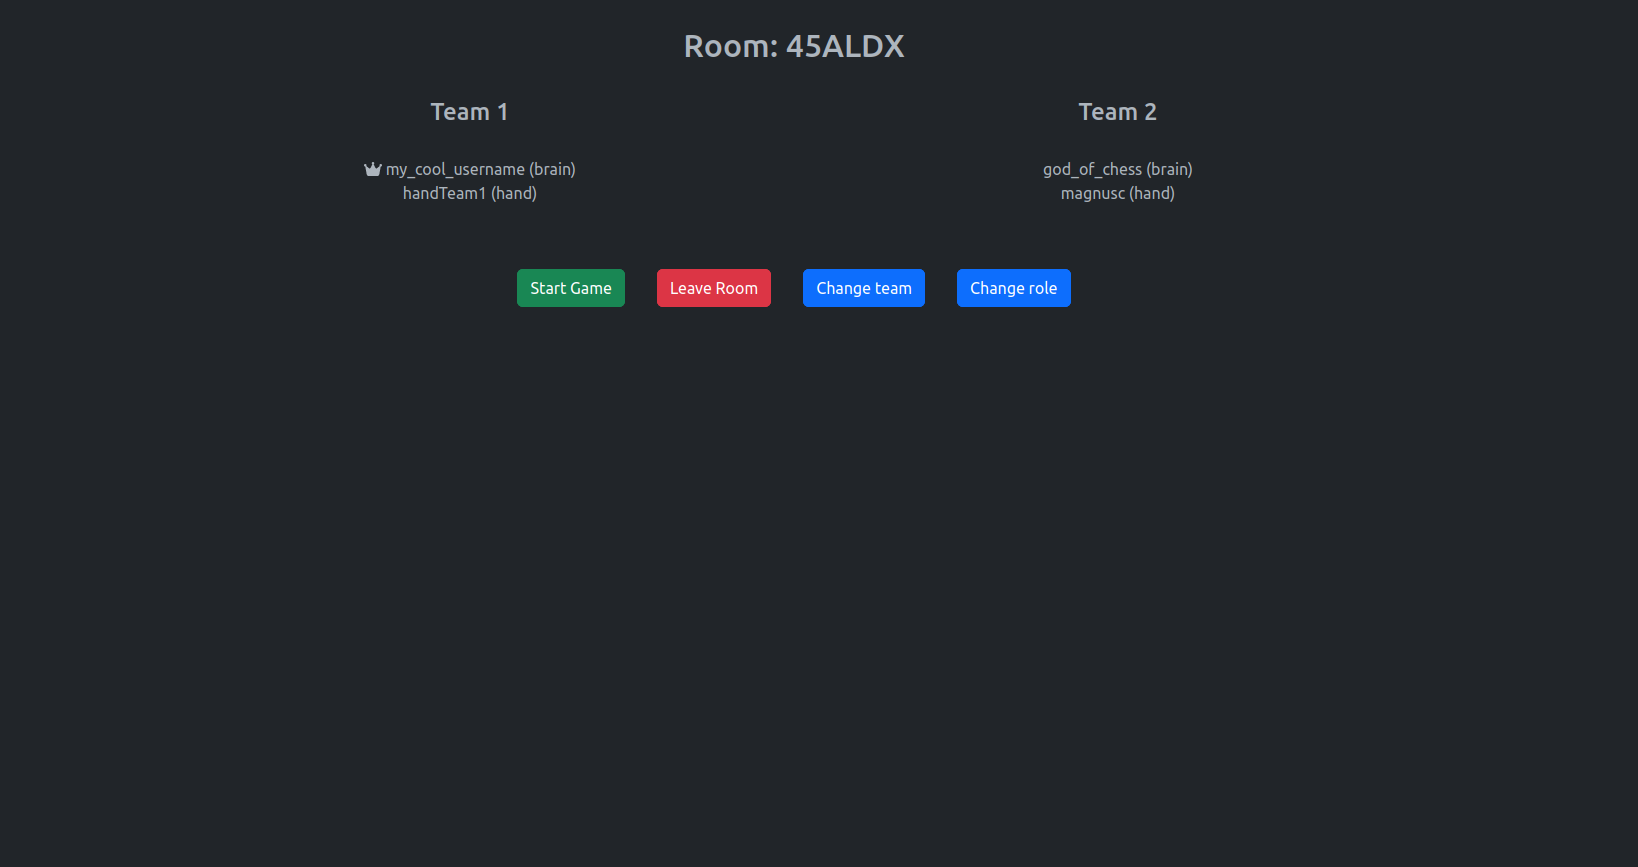
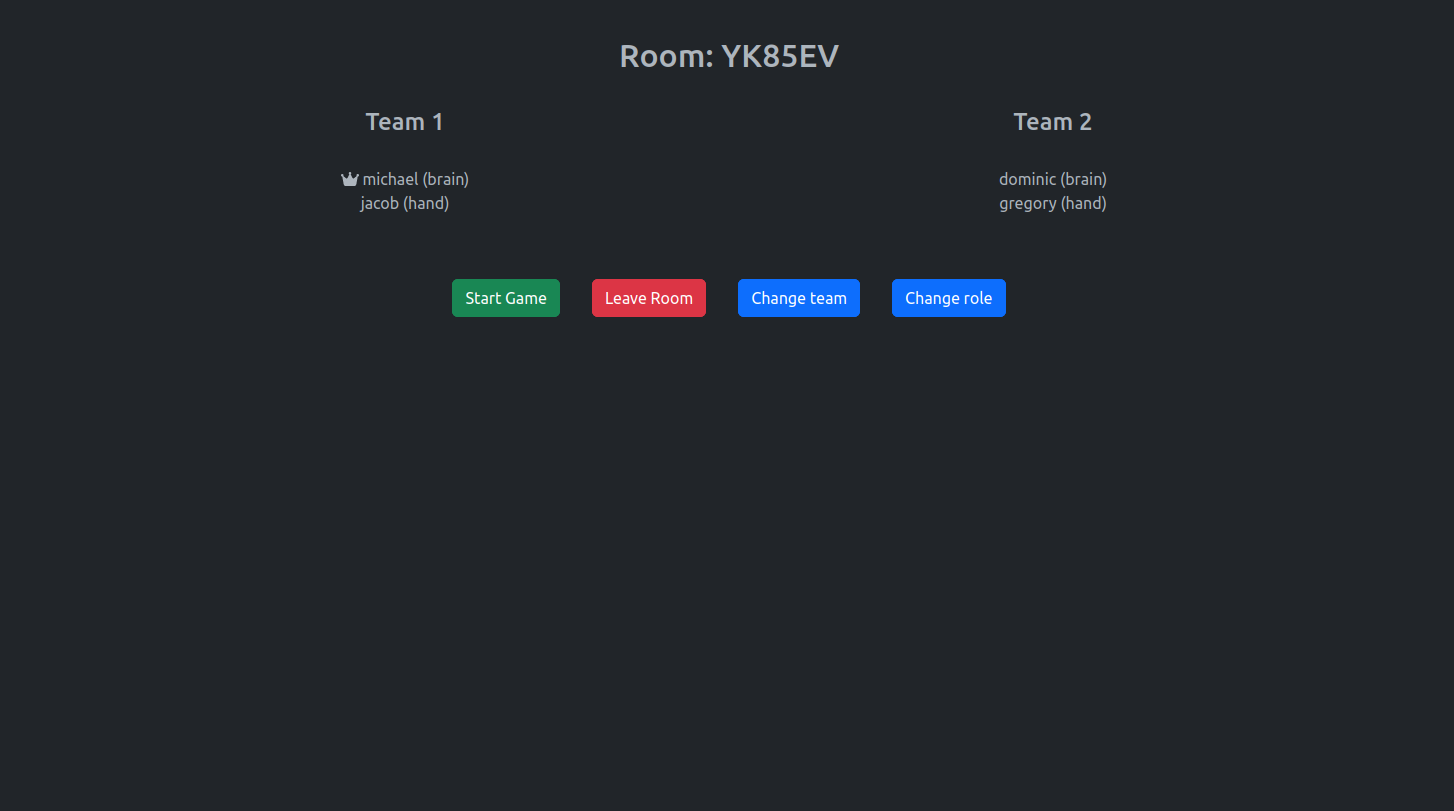
Add room view image

diff --git a/README.md b/README.md
@@ -87,5 +87,18 @@ Go to `localhost:3000` to see the main site.
 
 # Project demo
 
++ Main site
 
+![Main site](./images/main_site.png)
 
++ Room view
+
+![Room view](./images/room_view.png)
+
++ Hand's turn
+
+![Hand turn](./images/hand_move.png)
+
++ Brain's turn
+
+![Brain turn](./images/brain_move.png)
